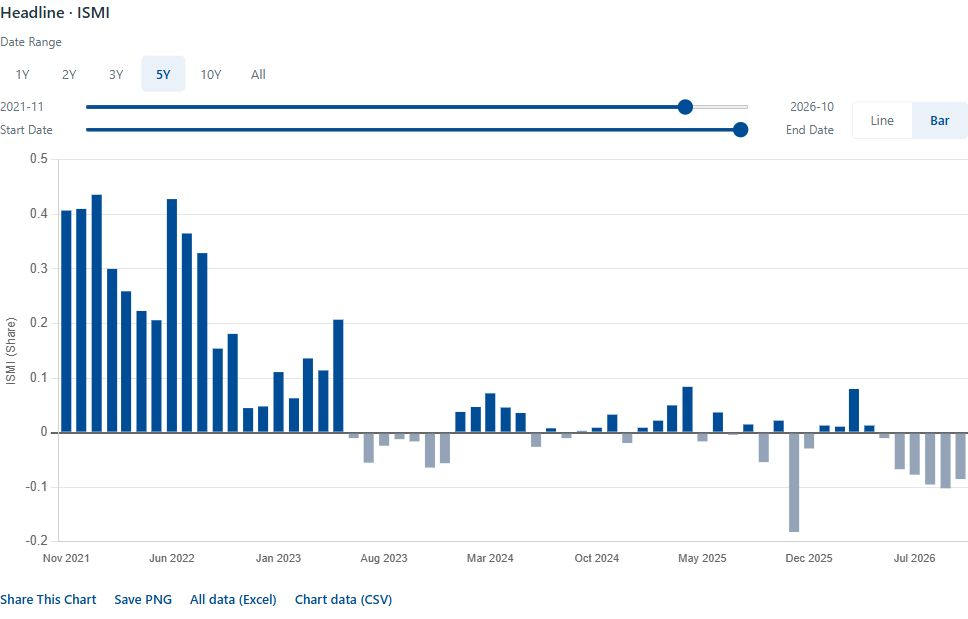
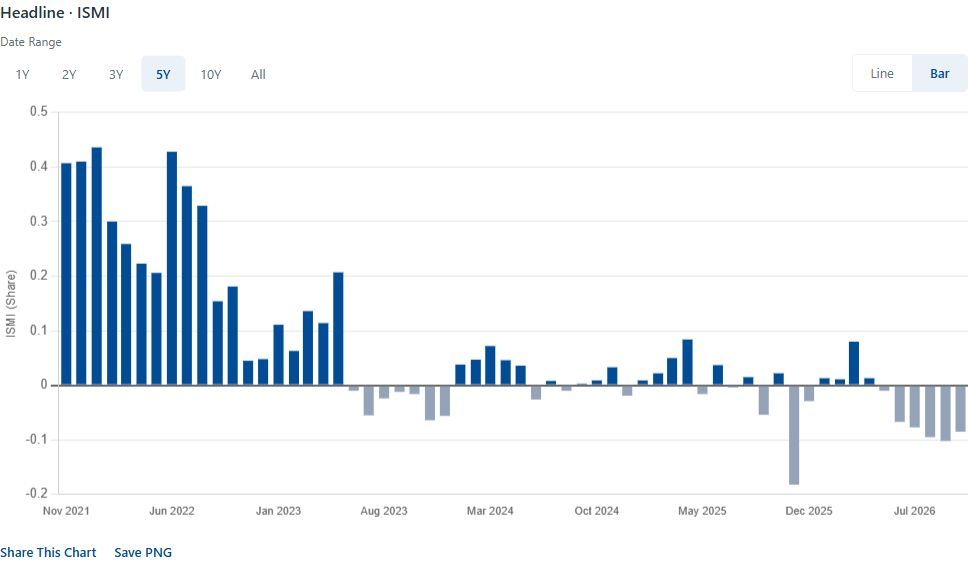
Refresh matching homepage dashboard previews

diff --git a/docs/index.html b/docs/index.html
@@ -1,2 +1,2 @@
 <!doctype html>
-<html lang="en"><head><meta charset="utf-8"><meta name="viewport" content="width=device-width, initial-scale=1"><meta name="theme-color" content="#6a2036"><title>Adam Hale Shapiro | Economist</title><meta name="description" content="Research, publications, economic letters, code and data from economist Adam Hale Shapiro."><link rel="icon" href="assets/favicon.svg?v=8fddd67f42" type="image/svg+xml"><link rel="stylesheet" href="assets/style.css?v=a4621b38df"><script defer src="assets/site.js?v=a04e65457d"></script><script data-goatcounter="https://adam-hale-shapiro.goatcounter.com/count" async src="https://gc.zgo.at/count.js"></script></head><body id="top"><a class="skip-link" href="#content">Skip to content</a><header class="site-header"><div class="header-inner"><a class="brand" href="./">Adam Hale Shapiro</a><button class="menu-toggle" type="button" aria-expanded="false" aria-controls="site-nav"><span>Menu</span><svg viewBox="0 0 20 20" width="20" height="20" aria-hidden="true"><path d="M3 6h14M3 10h14M3 14h14"/></svg></button><nav id="site-nav" aria-label="Main navigation"><a aria-current="page" href="./">Home</a><a href="research/">Research</a><a href="blank-1/">Letters</a><a href="blank-2/">Code & Data</a><a class="nav-cv" href="https://www.frbsf.org/wp-content/uploads/CV-Shapiro.pdf">CV</a></nav></div></header><main id="content" class="home-main"><h1 class="sr-only">Adam Hale Shapiro</h1><div class="tree-banner"><img src="assets/forest-banner.jpg" alt="Sunlight falling on snow-covered trees" width="1600" height="440" fetchpriority="high"></div><section class="hero"><div class="hero-copy"><div class="hero-tools"><div class="profile-links"><a class="profile-link" aria-label="Google Scholar" href="https://scholar.google.com/citations?user=pll_5dwAAAAJ&amp;hl=en"><img class="profile-icon" src="assets/icons/google-scholar.svg?v=c2d19add3a" width="20" height="20" alt="" aria-hidden="true" decoding="async"><span class="profile-label">Google Scholar</span><span class="profile-label-compact" aria-hidden="true">Google Scholar</span></a><a class="profile-link" aria-label="SF Fed Profile" href="https://www.frbsf.org/our-people/economists/adam-shapiro/"><img class="profile-icon profile-icon-bank" src="assets/icons/sf-fed.png?v=929ca86e1d" width="20" height="20" alt="" aria-hidden="true" decoding="async"><span class="profile-label">SF Fed Profile</span><span class="profile-label-compact" aria-hidden="true">SF Fed</span></a><a class="profile-link" aria-label="LinkedIn" href="https://www.linkedin.com/in/adam-shapiro-019b41b/"><img class="profile-icon" src="assets/icons/linkedin.svg?v=c0879bc338" width="20" height="20" alt="" aria-hidden="true" decoding="async"><span class="profile-label">LinkedIn</span><span class="profile-label-compact" aria-hidden="true">LinkedIn</span></a></div></div></div></section><section class="home-section"><div class="section-header"><div><h2>Recent papers</h2></div><a class="text-link all-research-link" href="research/">All research</a></div><div class="featured-papers"><article class="paper research-item featured-publication" data-search-item="" data-search="&quot;News Selection and Household Inflation Expectations&quot; with Ryan Chahrour and Daniel Wilson FRBSF Working Paper April 2025. Conditionally accepted, AEJ: Macroeconomics PDF"><div class="research-copy"><h3><a href="papers/">News Selection and Household Inflation Expectations</a></h3><div class="paper-details"><p class="paper-authors">with Ryan Chahrour and Daniel Wilson</p><p class="paper-venue">FRBSF Working Paper · April 2025.</p></div><p class="paper-status">Conditionally accepted, AEJ: Macroeconomics</p><div class="paper-disclosures"><a class="resource-link primary-resource" href="https://drive.google.com/file/d/1z1Hcgu2mrh3X7V9DUCdXK9kKekRJB_dE/view">PDF</a></div></div><a class="letter-figure research-figure" href="papers/" aria-label="Read News Selection and Household Inflation Expectations"><img src="assets/research/news-selection-and-household-inflation-expectations.png?v=22cdd9a185" alt="Aggregate variation in hearing inflation news" width="956" height="650" loading="lazy" decoding="async" style="--figure-width:96.2444%;--figure-height:114.5167%;--figure-left:1.7771%;--figure-top:-9.1082%"></a></article><article class="paper research-item featured-publication" data-search-item="" data-search="&quot;Are Medicaid and Medicare Patients Treated Equally?&quot; with Calvin Ackley, Abe Dunn, Eli Liebman FRBSF Working Paper May 2024. Conditionally accepted, AEJ: Economic Policy PDF"><div class="research-copy"><h3><a href="blank/">Are Medicaid and Medicare Patients Treated Equally?</a></h3><div class="paper-details"><p class="paper-authors">with Calvin Ackley, Abe Dunn, Eli Liebman</p><p class="paper-venue">FRBSF Working Paper · May 2024.</p></div><p class="paper-status">Conditionally accepted, AEJ: Economic Policy</p><div class="paper-disclosures"><a class="resource-link primary-resource" href="_files/ugd/5f94f7_5fe90671a9e847fda98083da2f173bdd.pdf">PDF</a></div></div><a class="letter-figure research-figure" href="blank/" aria-label="Read Are Medicaid and Medicare Patients Treated Equally?"><img src="assets/research/are-medicaid-and-medicare-patients-treated-equally.png?v=b57fcc2032" alt="Health spending by payer type for dual-eligible patients" width="980" height="500" loading="lazy" decoding="async" style="--figure-width:104.3891%;--figure-height:93.2045%;--figure-left:-1.5554%;--figure-top:1.6268%"></a></article></div></section><section class="home-section"><div class="section-header"><div><h2>Interactive Dashboards</h2></div><a class="text-link all-data-link" href="blank-2/">All code &amp; data</a></div><div class="tools-grid"><a class="tool-feature" href="https://adamshap.github.io/ismi-webapp/ism_webapp.html"><div class="tool-summary"><h3>Inflation Shock Momentum</h3><p>Explore sustained movements in inflation shocks.</p></div><span class="tool-preview"><img src="assets/dashboards/ismi.jpg?v=1e8b7cca59" alt="" width="914" height="500" loading="lazy" decoding="async"></span></a><a class="tool-feature" href="https://adamshap.github.io/supply-demand-webapp/supply_demand_webapp.html"><div class="tool-summary"><h3>Supply &amp; Demand Driven Inflation</h3><p>Explore the supply and demand components of inflation.</p></div><span class="tool-preview"><img src="assets/dashboards/supply-demand.jpg?v=04710d1c97" alt="" width="914" height="500" loading="lazy" decoding="async"></span></a></div></section></main><footer class="site-footer"><div class="footer-top"><div><a class="footer-name" href="./">Adam Hale Shapiro</a><p>Vice President &middot; Federal Reserve Bank of San Francisco</p></div><div class="footer-contact"><button class="email-reveal" type="button" data-reveal-email hidden>Show email</button><noscript><a href="https://www.frbsf.org/our-people/economists/adam-shapiro/">Contact via SF Fed profile</a></noscript><p>101 Market Street · San Francisco, CA 94105</p></div></div><p class="disclaimer">The content on this website does not represent the views of the Federal Reserve Bank of San Francisco (FRBSF) or the Federal Reserve System. <a href="https://www.frbsf.org/contact-us/">Contact the FRBSF</a> for all media inquiries.</p><div class="footer-bottom"><span>© 2026 Adam Hale Shapiro</span><a href="#top">Back to top</a></div></footer></body></html>
+<html lang="en"><head><meta charset="utf-8"><meta name="viewport" content="width=device-width, initial-scale=1"><meta name="theme-color" content="#6a2036"><title>Adam Hale Shapiro | Economist</title><meta name="description" content="Research, publications, economic letters, code and data from economist Adam Hale Shapiro."><link rel="icon" href="assets/favicon.svg?v=8fddd67f42" type="image/svg+xml"><link rel="stylesheet" href="assets/style.css?v=a4621b38df"><script defer src="assets/site.js?v=a04e65457d"></script><script data-goatcounter="https://adam-hale-shapiro.goatcounter.com/count" async src="https://gc.zgo.at/count.js"></script></head><body id="top"><a class="skip-link" href="#content">Skip to content</a><header class="site-header"><div class="header-inner"><a class="brand" href="./">Adam Hale Shapiro</a><button class="menu-toggle" type="button" aria-expanded="false" aria-controls="site-nav"><span>Menu</span><svg viewBox="0 0 20 20" width="20" height="20" aria-hidden="true"><path d="M3 6h14M3 10h14M3 14h14"/></svg></button><nav id="site-nav" aria-label="Main navigation"><a aria-current="page" href="./">Home</a><a href="research/">Research</a><a href="blank-1/">Letters</a><a href="blank-2/">Code & Data</a><a class="nav-cv" href="https://www.frbsf.org/wp-content/uploads/CV-Shapiro.pdf">CV</a></nav></div></header><main id="content" class="home-main"><h1 class="sr-only">Adam Hale Shapiro</h1><div class="tree-banner"><img src="assets/forest-banner.jpg" alt="Sunlight falling on snow-covered trees" width="1600" height="440" fetchpriority="high"></div><section class="hero"><div class="hero-copy"><div class="hero-tools"><div class="profile-links"><a class="profile-link" aria-label="Google Scholar" href="https://scholar.google.com/citations?user=pll_5dwAAAAJ&amp;hl=en"><img class="profile-icon" src="assets/icons/google-scholar.svg?v=c2d19add3a" width="20" height="20" alt="" aria-hidden="true" decoding="async"><span class="profile-label">Google Scholar</span><span class="profile-label-compact" aria-hidden="true">Google Scholar</span></a><a class="profile-link" aria-label="SF Fed Profile" href="https://www.frbsf.org/our-people/economists/adam-shapiro/"><img class="profile-icon profile-icon-bank" src="assets/icons/sf-fed.png?v=929ca86e1d" width="20" height="20" alt="" aria-hidden="true" decoding="async"><span class="profile-label">SF Fed Profile</span><span class="profile-label-compact" aria-hidden="true">SF Fed</span></a><a class="profile-link" aria-label="LinkedIn" href="https://www.linkedin.com/in/adam-shapiro-019b41b/"><img class="profile-icon" src="assets/icons/linkedin.svg?v=c0879bc338" width="20" height="20" alt="" aria-hidden="true" decoding="async"><span class="profile-label">LinkedIn</span><span class="profile-label-compact" aria-hidden="true">LinkedIn</span></a></div></div></div></section><section class="home-section"><div class="section-header"><div><h2>Recent papers</h2></div><a class="text-link all-research-link" href="research/">All research</a></div><div class="featured-papers"><article class="paper research-item featured-publication" data-search-item="" data-search="&quot;News Selection and Household Inflation Expectations&quot; with Ryan Chahrour and Daniel Wilson FRBSF Working Paper April 2025. Conditionally accepted, AEJ: Macroeconomics PDF"><div class="research-copy"><h3><a href="papers/">News Selection and Household Inflation Expectations</a></h3><div class="paper-details"><p class="paper-authors">with Ryan Chahrour and Daniel Wilson</p><p class="paper-venue">FRBSF Working Paper · April 2025.</p></div><p class="paper-status">Conditionally accepted, AEJ: Macroeconomics</p><div class="paper-disclosures"><a class="resource-link primary-resource" href="https://drive.google.com/file/d/1z1Hcgu2mrh3X7V9DUCdXK9kKekRJB_dE/view">PDF</a></div></div><a class="letter-figure research-figure" href="papers/" aria-label="Read News Selection and Household Inflation Expectations"><img src="assets/research/news-selection-and-household-inflation-expectations.png?v=22cdd9a185" alt="Aggregate variation in hearing inflation news" width="956" height="650" loading="lazy" decoding="async" style="--figure-width:96.2444%;--figure-height:114.5167%;--figure-left:1.7771%;--figure-top:-9.1082%"></a></article><article class="paper research-item featured-publication" data-search-item="" data-search="&quot;Are Medicaid and Medicare Patients Treated Equally?&quot; with Calvin Ackley, Abe Dunn, Eli Liebman FRBSF Working Paper May 2024. Conditionally accepted, AEJ: Economic Policy PDF"><div class="research-copy"><h3><a href="blank/">Are Medicaid and Medicare Patients Treated Equally?</a></h3><div class="paper-details"><p class="paper-authors">with Calvin Ackley, Abe Dunn, Eli Liebman</p><p class="paper-venue">FRBSF Working Paper · May 2024.</p></div><p class="paper-status">Conditionally accepted, AEJ: Economic Policy</p><div class="paper-disclosures"><a class="resource-link primary-resource" href="_files/ugd/5f94f7_5fe90671a9e847fda98083da2f173bdd.pdf">PDF</a></div></div><a class="letter-figure research-figure" href="blank/" aria-label="Read Are Medicaid and Medicare Patients Treated Equally?"><img src="assets/research/are-medicaid-and-medicare-patients-treated-equally.png?v=b57fcc2032" alt="Health spending by payer type for dual-eligible patients" width="980" height="500" loading="lazy" decoding="async" style="--figure-width:104.3891%;--figure-height:93.2045%;--figure-left:-1.5554%;--figure-top:1.6268%"></a></article></div></section><section class="home-section"><div class="section-header"><div><h2>Interactive Dashboards</h2></div><a class="text-link all-data-link" href="blank-2/">All code &amp; data</a></div><div class="tools-grid"><a class="tool-feature" href="https://adamshap.github.io/ismi-webapp/ism_webapp.html"><div class="tool-summary"><h3>Inflation Shock Momentum</h3><p>Explore sustained movements in inflation shocks.</p></div><span class="tool-preview"><img src="assets/dashboards/ismi.jpg?v=cd5573a837" alt="" width="914" height="500" loading="lazy" decoding="async"></span></a><a class="tool-feature" href="https://adamshap.github.io/supply-demand-webapp/supply_demand_webapp.html"><div class="tool-summary"><h3>Supply &amp; Demand Driven Inflation</h3><p>Explore the supply and demand components of inflation.</p></div><span class="tool-preview"><img src="assets/dashboards/supply-demand.jpg?v=97a07e02b3" alt="" width="914" height="500" loading="lazy" decoding="async"></span></a></div></section></main><footer class="site-footer"><div class="footer-top"><div><a class="footer-name" href="./">Adam Hale Shapiro</a><p>Vice President &middot; Federal Reserve Bank of San Francisco</p></div><div class="footer-contact"><button class="email-reveal" type="button" data-reveal-email hidden>Show email</button><noscript><a href="https://www.frbsf.org/our-people/economists/adam-shapiro/">Contact via SF Fed profile</a></noscript><p>101 Market Street · San Francisco, CA 94105</p></div></div><p class="disclaimer">The content on this website does not represent the views of the Federal Reserve Bank of San Francisco (FRBSF) or the Federal Reserve System. <a href="https://www.frbsf.org/contact-us/">Contact the FRBSF</a> for all media inquiries.</p><div class="footer-bottom"><span>© 2026 Adam Hale Shapiro</span><a href="#top">Back to top</a></div></footer></body></html>
